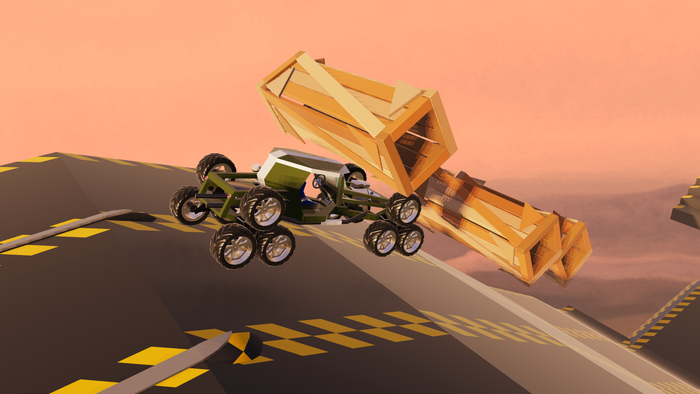
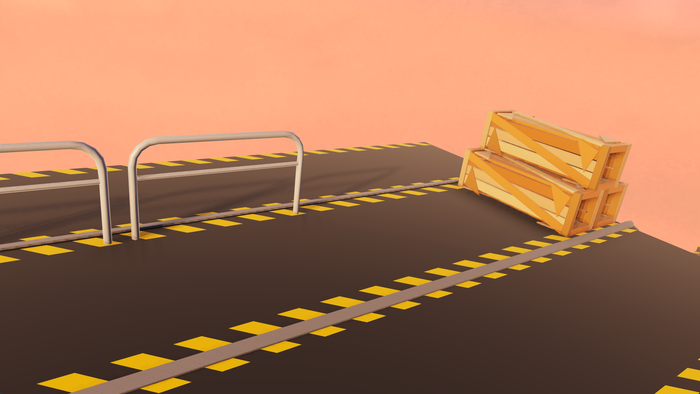
Show the track alone in the previews of the levels
The previews of the training levels and summit showed the car; a
preview is a picture of the track. H while driving now hides the car
(with its shadow) and everything drawn over the level, and the previews
were taken again that way.

The cache action moves to v5, which runs on Node.js 24 (v4 ran on the
deprecated Node.js 20).

diff --git a/src/TW3D.Game/GamePlay/DevelopmentKeys.cs b/src/TW3D.Game/GamePlay/DevelopmentKeys.cs
@@ -10,8 +10,9 @@ namespace TW3D.GamePlay
     /// <summary>
     /// The keys for development while driving (see docs/playing.md): the physics debug view (F1–F8, or the gamepad Start
     /// button), the lighting of the 2016 version, shadows and ambient occlusion (F9–F11) and the mood of the level (M)
-    /// to compare them, and the camera moved away from the car (the numeric keypad, Page Up and Page Down, Home).
-    /// They change only the level being played; the Options menu sets the look for good.
+    /// to compare them, the camera moved away from the car (the numeric keypad, Page Up and Page Down, Home), and the
+    /// track alone (H: the car and everything over the level hidden, for the previews of the levels in the level
+    /// select). They change only the level being played; the Options menu sets the look for good.
     /// </summary>
     sealed class DevelopmentKeys
     {
@@ -40,6 +41,9 @@ namespace TW3D.GamePlay
         private readonly ChaseCamera camera;
         private LevelMood mood;
 
+        /// <summary>The track alone: the car, the time, the tutorial and the on-screen controls are not drawn (H).</summary>
+        public bool TrackOnly { get; private set; }
+
         /// <param name="mood">The mood of the level, which M changes from.</param>
         public DevelopmentKeys(DebugView debugView, SceneRenderer renderer, ChaseCamera camera, LevelMood mood)
         {
@@ -64,6 +68,9 @@ namespace TW3D.GamePlay
                 renderer.Shadows = !renderer.Shadows;
             if (input.KeyPressed(Keys.F11))
                 renderer.AmbientOcclusion = !renderer.AmbientOcclusion;
+
+            if (input.KeyPressed(Keys.H))
+                TrackOnly = !TrackOnly;
 
             //The moods of the levels, to try them on any level
             if (input.KeyPressed(Keys.M))

diff --git a/src/TW3D.Game/GamePlay/GameplayScreen.cs b/src/TW3D.Game/GamePlay/GameplayScreen.cs
@@ -267,7 +267,8 @@ namespace TW3D.GamePlay
         {
             renderer.Begin(camera.View, camera.Projection);
             sky.Draw(renderer);
-            car.Draw(renderer);
+            if (!developmentKeys.TrackOnly)
+                car.Draw(renderer);
             level.Draw(renderer);
             renderer.End();
 
@@ -277,12 +278,15 @@ namespace TW3D.GamePlay
 
             SpriteBatch batch = Manager.SpriteBatch;
             batch.Begin();
-            controls.Layout(Manager.Viewport, Manager.ControlsScale);
-            controls.Draw(batch, 1f);
-            //The time gives way to the title of the results, which show it too
-            float hudBottom = RaceHud.Draw(Manager, race, results != null ? 1f - results.Visibility : 1f);
-            if (tutorial != null)
-                TutorialCard.Draw(Manager, tutorial, controls, hudBottom);
+            if (!developmentKeys.TrackOnly)
+            {
+                controls.Layout(Manager.Viewport, Manager.ControlsScale);
+                controls.Draw(batch, 1f);
+                //The time gives way to the title of the results, which show it too
+                float hudBottom = RaceHud.Draw(Manager, race, results != null ? 1f - results.Visibility : 1f);
+                if (tutorial != null)
+                    TutorialCard.Draw(Manager, tutorial, controls, hudBottom);
+            }
             //Fading in and out through black
             batch.Draw(Manager.Pixel, Manager.Viewport.Bounds, Color.Black * (1f - Visibility));
             batch.End();

diff --git a/docs/content.md b/docs/content.md
@@ -50,7 +50,7 @@ their sources in the repository: the images of the user interface (`Common/`),
 the previews of the levels of 2016 (`Levels/levimgs/`) and the fonts (only the font
 descriptions `*.spritefont` are here). The exceptions are built by the content pipeline:
 the previews of the newer levels (`Levels/levimgs/*.png`, 700 × 394, screenshots of the
-game below the time of the run) and the font of the glyphs of keys and buttons on the
+track alone: H while driving hides the car and everything over the level) and the font of the glyphs of keys and buttons on the
 tutorial cards: `Fonts/promptFont.spritefont`, from
 [PromptFont](../content/Fonts/PromptFont-OFL.txt) (`Fonts/PromptFont.ttf`, SIL Open Font
 License 1.1), only the glyphs it lists.

diff --git a/docs/levels.md b/docs/levels.md
@@ -21,8 +21,9 @@ The editor draws the level the same way as the game: F9 switches to the lighting
 
 A new level saved to `content/Levels/` appears in the level select automatically (after
 a rebuild, which copies it to the build output). Its preview image is
-`content/Levels/levimgs/<name>.png` (700 × 394, built by the content pipeline: add a
-`/build` line for it at the end of `content/Content.mgcb`); a level without one is shown
+`content/Levels/levimgs/<name>.png` (700 × 394, a screenshot of the track without the car:
+press H while driving; built by the content pipeline: add a `/build` line for it at the end
+of `content/Content.mgcb`); a level without one is shown
 as a dark rectangle with its name.
 
 ## Level format

diff --git a/docs/playing.md b/docs/playing.md
@@ -114,3 +114,4 @@ While driving:
 | F11 | Ambient occlusion on / off |
 | M | Switches the mood of the level (day, sunset, night) to try it; the level file stays as it is |
 | F12 | Frames per second on / off (also in Options) |
+| H | The track alone: the car, the time, the tutorial and the on-screen controls hidden (for the previews of the levels) |
